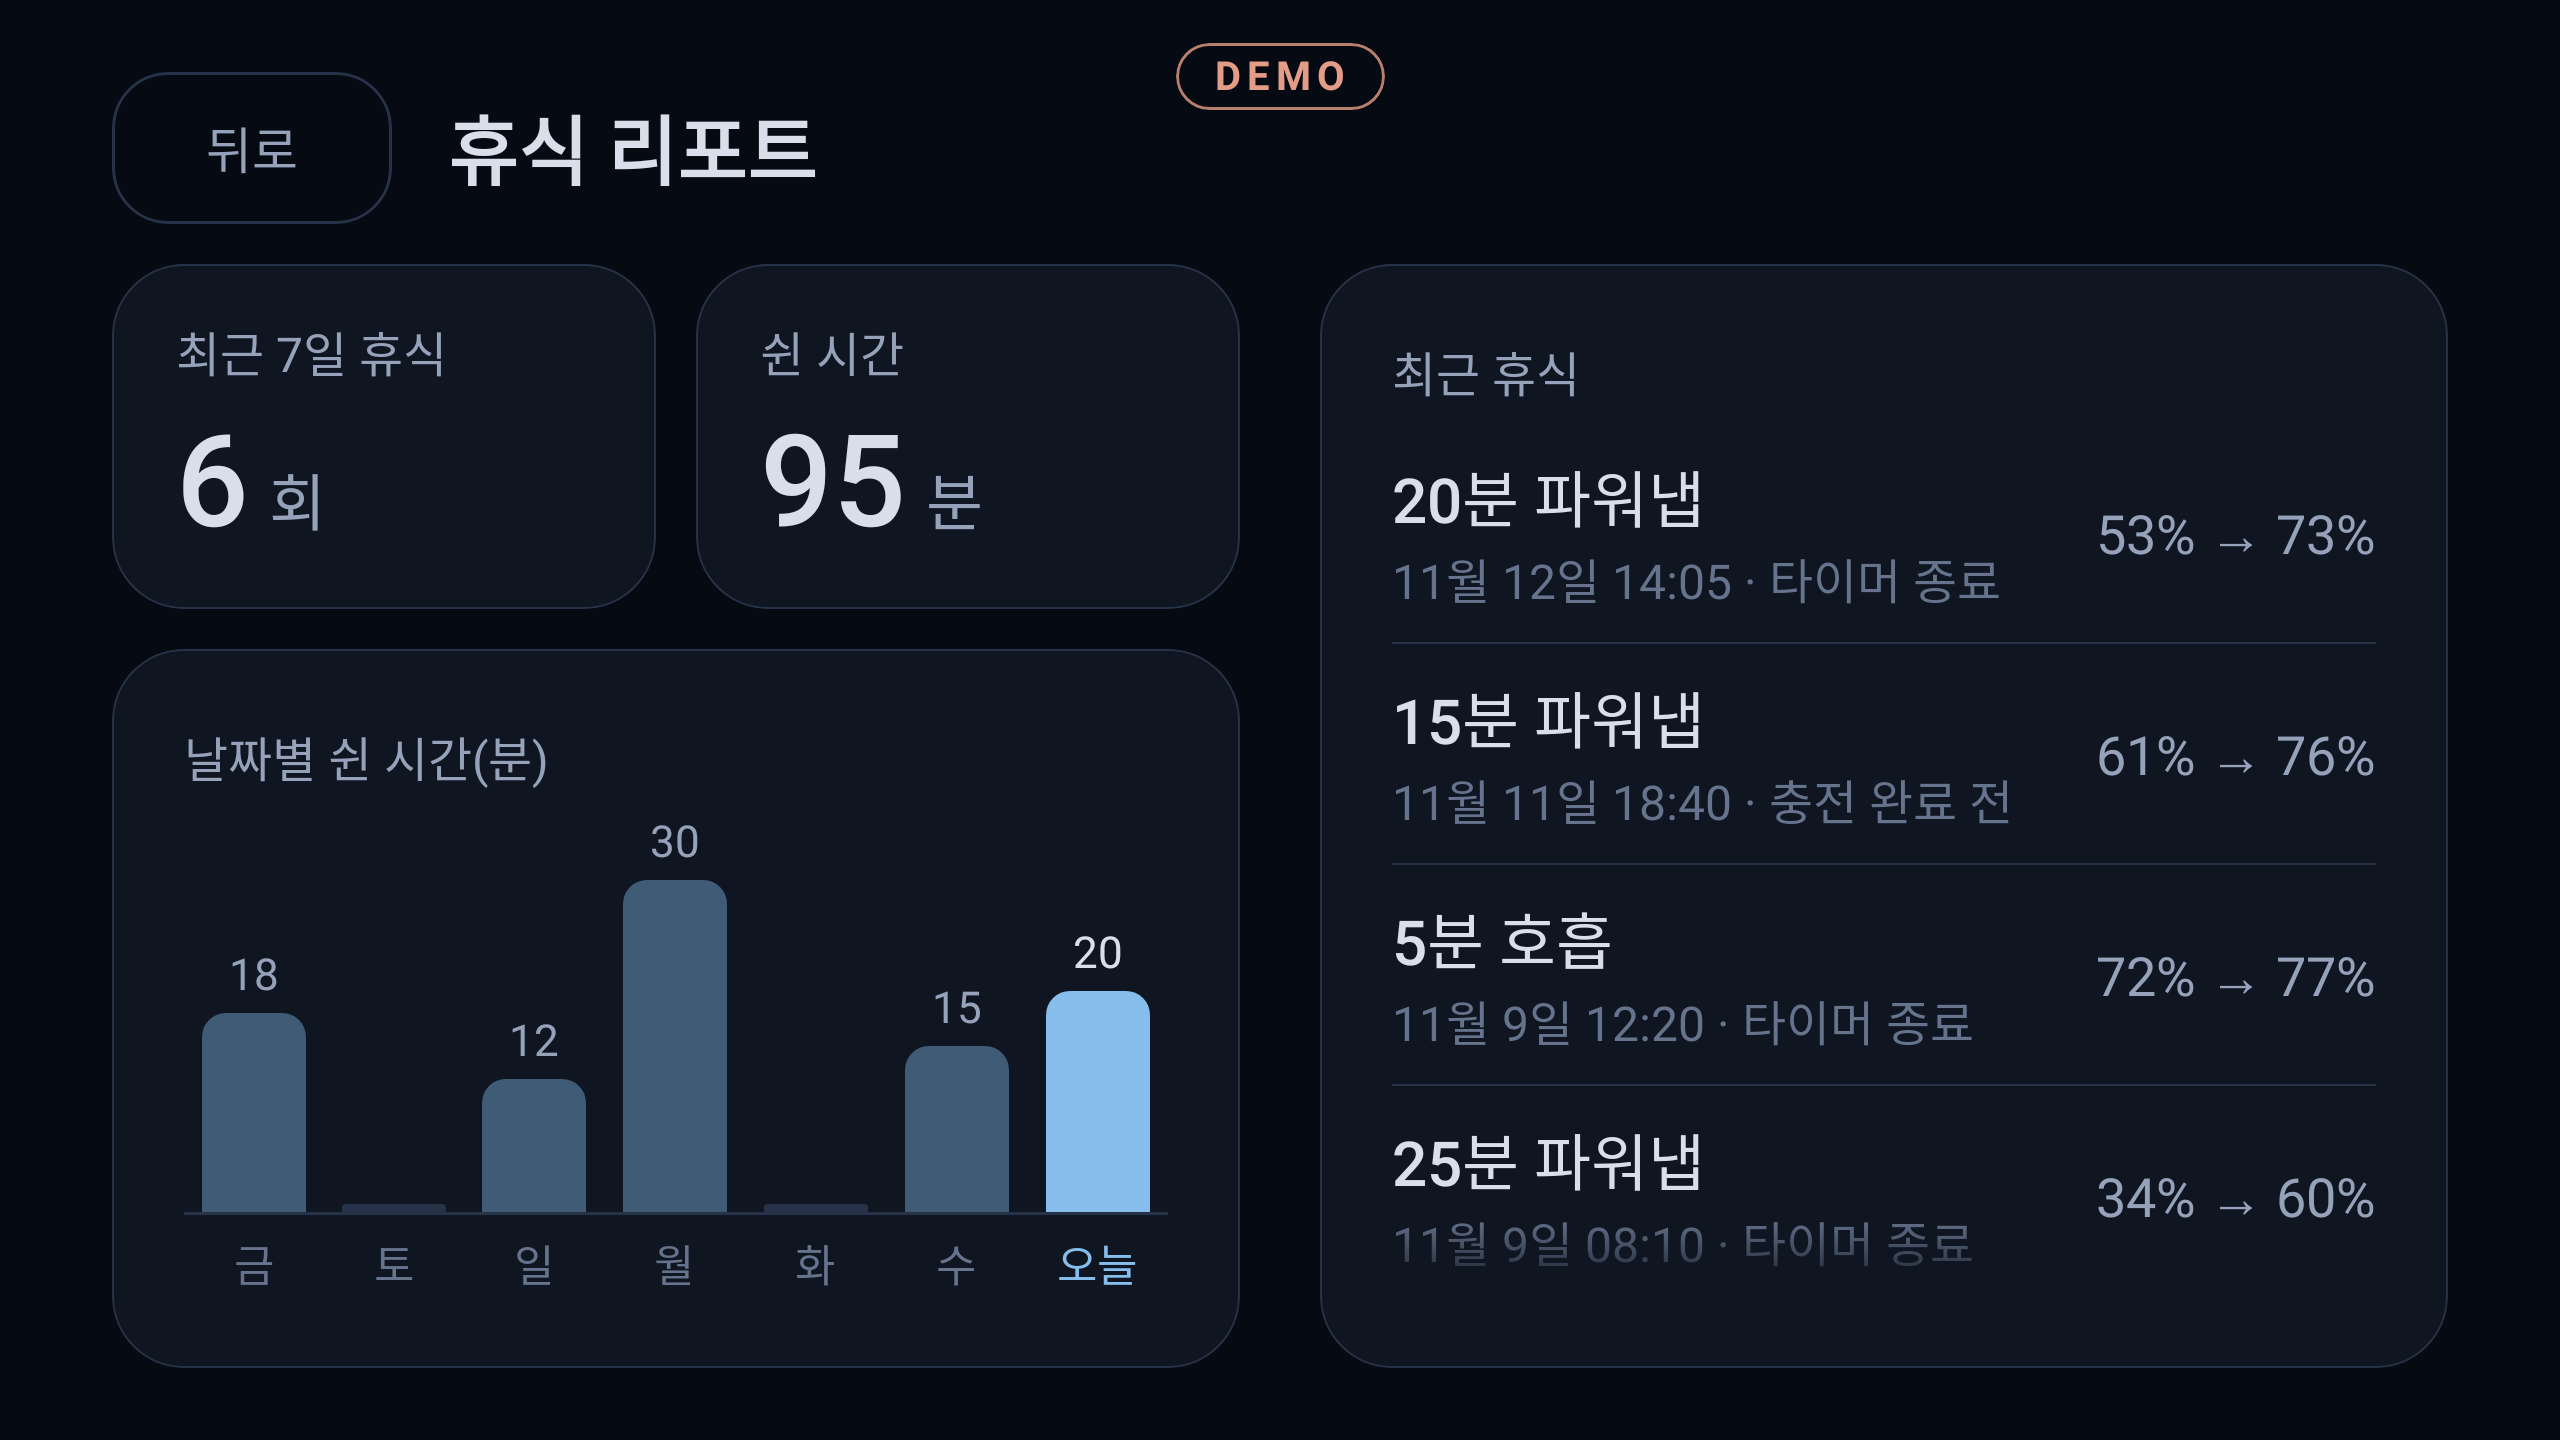
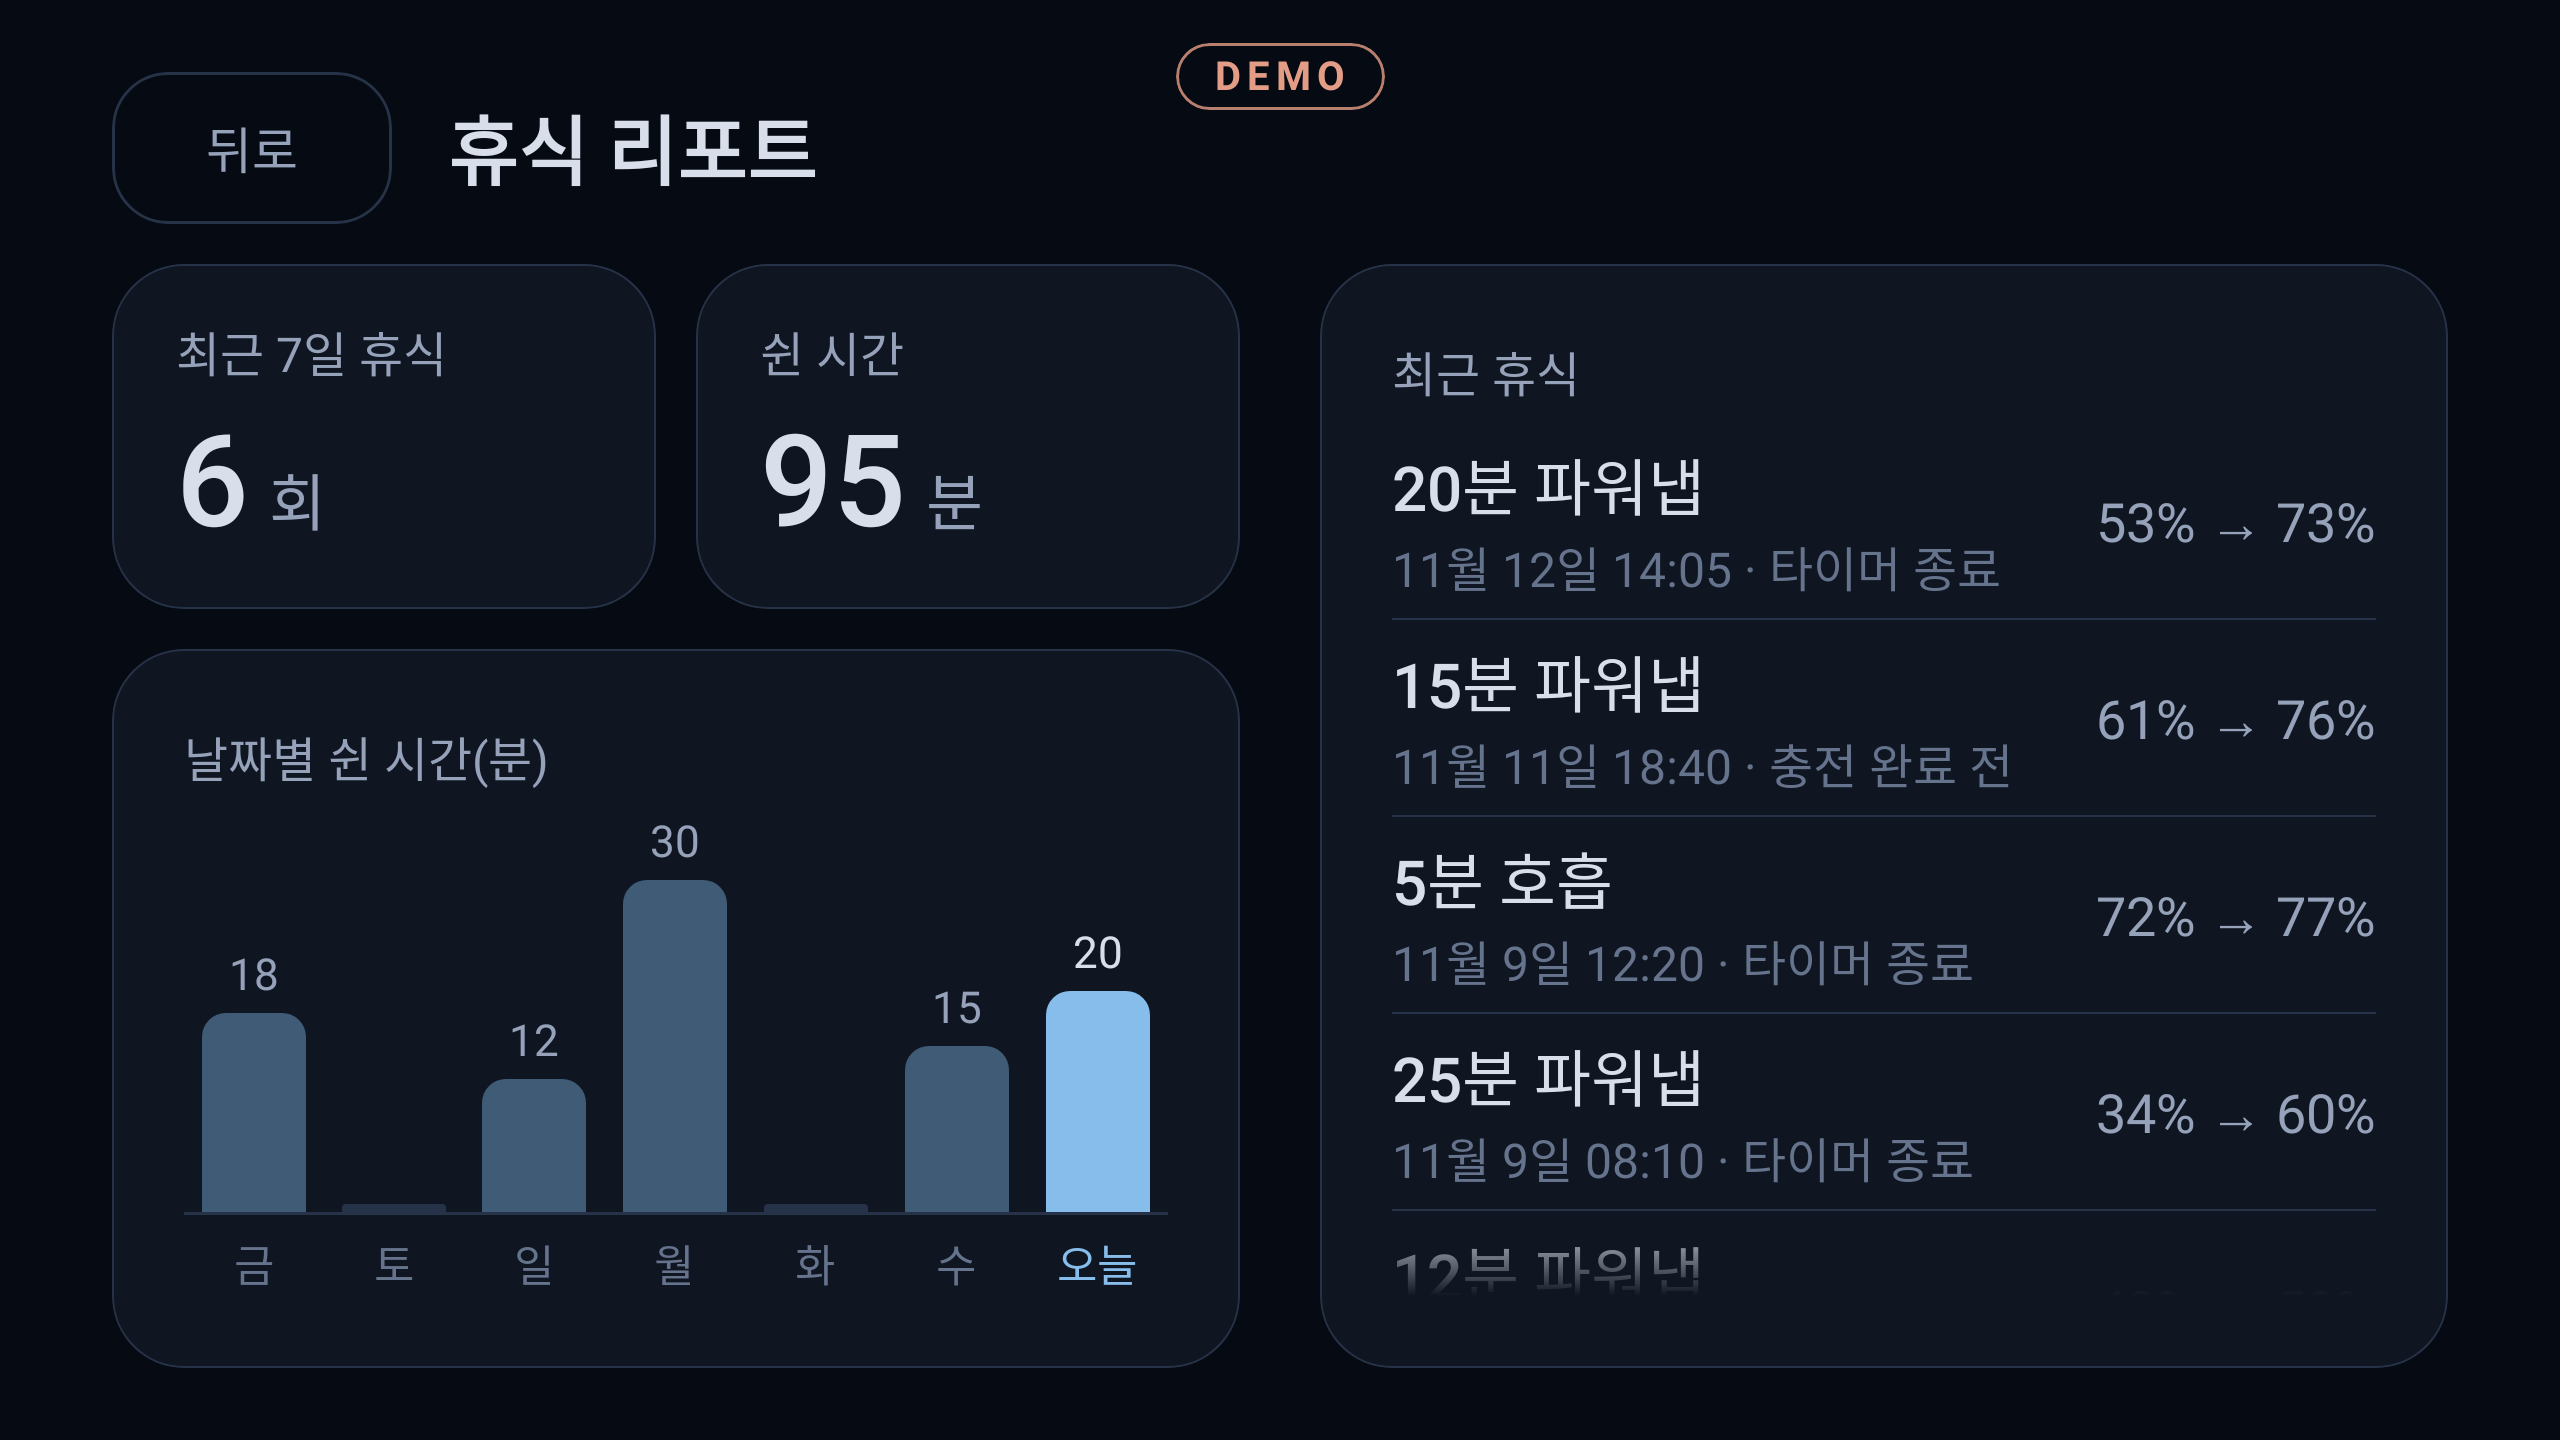
feat(ui): 화면, 설정, 휴식 리포트

diff --git a/app/src/test/java/com/chargenap/app/ui/ChargeNapScreensTest.kt b/app/src/test/java/com/chargenap/app/ui/ChargeNapScreensTest.kt
@@ -1,0 +1,179 @@
+package com.chargenap.app.ui
+
+import android.app.Application
+import androidx.compose.ui.test.assertIsDisplayed
+import androidx.compose.ui.test.junit4.createComposeRule
+import androidx.compose.ui.test.longClick
+import androidx.compose.ui.test.onNodeWithText
+import androidx.compose.ui.test.performClick
+import androidx.compose.ui.test.performTouchInput
+import com.chargenap.app.data.InMemoryPreferencesStore
+import com.chargenap.app.data.SessionHistoryRepository
+import com.chargenap.app.data.SessionRecord
+import com.chargenap.app.data.SettingsRepository
+import com.chargenap.app.session.Clock
+import com.chargenap.app.session.NapSessionEngine
+import com.chargenap.app.session.NapSessionState
+import com.chargenap.app.session.SessionConfig
+import com.chargenap.app.vehicle.FakeScenario
+import com.chargenap.app.vehicle.FakeVehicleGateway
+import kotlinx.coroutines.CoroutineScope
+import kotlinx.coroutines.ExperimentalCoroutinesApi
+import kotlinx.coroutines.Job
+import kotlinx.coroutines.cancel
+import kotlinx.coroutines.flow.MutableStateFlow
+import kotlinx.coroutines.launch
+import kotlinx.coroutines.runBlocking
+import kotlinx.coroutines.test.StandardTestDispatcher
+import kotlinx.coroutines.test.TestCoroutineScheduler
+import org.junit.After
+import org.junit.Assert.assertEquals
+import org.junit.Assert.assertTrue
+import org.junit.Before
+import org.junit.Rule
+import org.junit.Test
+import org.junit.runner.RunWith
+import org.robolectric.RobolectricTestRunner
+import org.robolectric.annotation.Config
+import org.robolectric.annotation.GraphicsMode
+
+/**
+ * 진입점 [ChargeNapScreens]를 실제 ViewModel·엔진·가상 차량과 묶어, 화면 터치만으로 세션 한 바퀴가 도는지 확인한다.
+ * 엔진과 가상 차량의 시간은 테스트 스케줄러로 직접 흘린다.
+ */
+@OptIn(ExperimentalCoroutinesApi::class)
+@RunWith(RobolectricTestRunner::class)
+@GraphicsMode(GraphicsMode.Mode.NATIVE)
+@Config(sdk = [34], qualifiers = "w2560dp-h1440dp-land-mdpi", application = Application::class)
+class ChargeNapScreensTest {
+
+    @get:Rule
+    val compose = createComposeRule()
+
+    private val scheduler = TestCoroutineScheduler()
+    private val dispatcher = StandardTestDispatcher(scheduler)
+    private val scope = CoroutineScope(dispatcher + Job())
+
+    private lateinit var fake: FakeVehicleGateway
+    private lateinit var engine: NapSessionEngine
+    private lateinit var history: SessionHistoryRepository
+    private lateinit var viewModel: NapViewModel
+    private val dimChanges = mutableListOf<Boolean>()
+
+    @Before
+    fun setUp() {
+        fake = FakeVehicleGateway(
+            FakeScenario(startPercent = 50, percentPerMinute = 1.0, autoStartChargingAfterMillis = null),
+            timeScale = 1.0,
+            scope = scope,
+        )
+        engine = NapSessionEngine(
+            gateway = fake,
+            clock = Clock { 1_800_000_000_000 + scheduler.currentTime },
+            scope = scope,
+            config = MutableStateFlow(SessionConfig()),
+            tickMillis = 1_000,
+        )
+        history = SessionHistoryRepository(InMemoryPreferencesStore())
+        scope.launch { engine.completedSessions.collect { history.add(SessionRecord.from(it)) } }
+        runBlocking { fake.start() }
+        engine.start()
+        viewModel = NapViewModel(
+            engine = engine,
+            gateway = fake,
+            demoControls = fake,
+            settingsRepository = SettingsRepository(InMemoryPreferencesStore()),
+            historyRepository = history,
+            coroutineContext = scope.coroutineContext,
+        )
+        scheduler.runCurrent()
+        compose.setContent {
+            ChargeNapScreens(viewModel = viewModel, onSleepDimChanged = { dimChanges += it })
+        }
+    }
+
+    @After
+    fun tearDown() {
+        scope.cancel()
+    }
+
+    private fun advance(millis: Long = 0) {
+        scheduler.advanceTimeBy(millis)
+        scheduler.runCurrent()
+        compose.waitForIdle()
+    }
+
+    @Test
+    fun touchOnly_fullSession_fromDemoPanelToReport() {
+        // 홈: 충전 전이라 시작할 수 없다. DEMO 배지가 보인다.
+        compose.onNodeWithText("DEMO").assertIsDisplayed()
+        compose.onNodeWithText("충전기를 연결하면 시작할 수 있어요").assertIsDisplayed()
+        assertEquals(listOf(false), dimChanges)
+
+        // DEMO 조작 패널로 충전을 시작하면 제안이 뜬다.
+        fake.setRemainingChargeMinutes(27)
+        compose.onNodeWithText("DEMO 조작").performClick()
+        compose.onNodeWithText("충전 시작").performClick()
+        advance()
+        compose.onNodeWithText("접기").performClick()
+        compose.onNodeWithText("20분 파워냅 어때요?").assertIsDisplayed()
+
+        // 수락 → 뒷좌석 질문 → 준비 → 수면
+        compose.onNodeWithText("시작").performClick()
+        advance()
+        compose.onNodeWithText("없어요").performClick()
+        advance(1_000)
+        assertTrue(engine.state.value is NapSessionState.Napping)
+        compose.onNodeWithText("20:00").assertIsDisplayed()
+        assertEquals(listOf(false, true), dimChanges)
+        assertEquals(60, fake.seatReclineLevel.value)
+
+        // 남은 시간이 엔진 시계를 따라 줄어든다.
+        advance(61_000)
+        compose.onNodeWithText("18:59").assertIsDisplayed()
+
+        // 길게 눌러 기상 → 브리핑 → 확인
+        compose.onNodeWithText("18:59").performTouchInput { longClick() }
+        advance()
+        compose.onNodeWithText("일어나는 중이에요").assertIsDisplayed()
+        assertEquals(listOf(false, true, false), dimChanges)
+        advance(22_000)
+        compose.onNodeWithText("잘 쉬셨어요").assertIsDisplayed()
+        assertEquals(0, fake.seatReclineLevel.value)
+        compose.onNodeWithText("확인").performClick()
+        advance()
+
+        // 홈으로 돌아오고, 리포트에 방금 세션이 나온다.
+        compose.onNodeWithText("리포트").performClick()
+        compose.onNodeWithText("1분 파워냅").assertIsDisplayed()
+        compose.onNodeWithText("최근 휴식").assertIsDisplayed()
+    }
+
+    @Test
+    fun doorOpensDuringNap_showsAbortedAndRestores() {
+        fake.setRemainingChargeMinutes(27)
+        fake.startCharging()
+        advance()
+        compose.onNodeWithText("시작").performClick()
+        advance()
+        compose.onNodeWithText("없어요").performClick()
+        advance(1_000)
+        assertEquals(listOf(false, true), dimChanges)
+
+        fake.setDoorOpen(true)
+        advance()
+        compose.onNodeWithText("문이 열려 휴식을 멈췄어요").assertIsDisplayed()
+        compose.onNodeWithText("문을 닫으면 시트를 되돌려요").assertIsDisplayed()
+        assertEquals(listOf(false, true, false), dimChanges)
+        assertEquals(60, fake.seatReclineLevel.value)
+
+        // 문을 닫으면 버튼을 누르지 않아도 복구한다.
+        fake.setDoorOpen(false)
+        advance(2_000)
+        compose.onNodeWithText("시트와 공조를 원래대로 되돌렸어요").assertIsDisplayed()
+        assertEquals(0, fake.seatReclineLevel.value)
+        compose.onNodeWithText("확인").performClick()
+        advance()
+        compose.onNodeWithText("차지냅").assertIsDisplayed()
+    }
+}

diff --git a/app/src/test/java/com/chargenap/app/ui/ScreenSnapshotTest.kt b/app/src/test/java/com/chargenap/app/ui/ScreenSnapshotTest.kt
@@ -336,6 +336,49 @@ class ScreenSnapshotTest {
         ).copy(gearInPark = false, startBlockers = allPass.copy(gear = CheckResult.FAIL)),
     )
 
+    // ---------------------------------------------------------------- 16:9가 아닌 화면
+
+    @Test
+    @Config(qualifiers = "w2880dp-h1080dp-land-mdpi")
+    fun ultraWide_home() = capture(
+        "90_ultrawide_home",
+        charging(NapSessionState.Offer(Recommendation.Nap(20, 27)), demo = true),
+    )
+
+    @Test
+    @Config(qualifiers = "w2880dp-h1080dp-land-mdpi")
+    fun ultraWide_briefingFailures() = capture(
+        "91_ultrawide_briefing",
+        charging(
+            NapSessionState.Briefing(summary.copy(rangeKm = null, failures = listOf("seat: timeout", "climate: rejected"))),
+            demo = true,
+        ),
+    )
+
+    @Test
+    @Config(qualifiers = "w1600dp-h1200dp-land-mdpi")
+    fun fourByThree_safety() = capture(
+        "92_4x3_safety",
+        charging(
+            NapSessionState.SafetyCheck(
+                minutes = 20,
+                mode = SessionMode.NAP,
+                report = allPass.copy(parkingBrake = CheckResult.FAIL),
+                rearSeatQuestionPending = false,
+                doorConfirmPending = false,
+            ),
+            demo = true,
+        ),
+    )
+
+    @Test
+    @Config(qualifiers = "w1600dp-h1200dp-land-mdpi")
+    fun fourByThree_settings() = capture(
+        "93_4x3_settings",
+        charging(NapSessionState.Idle, demo = false),
+        route = NapRoute.SETTINGS,
+    )
+
     // ---------------------------------------------------------------- 리포트와 설정
 
     @Test

diff --git a/app/src/main/java/com/chargenap/app/ui/report/ReportScreen.kt b/app/src/main/java/com/chargenap/app/ui/report/ReportScreen.kt
@@ -250,7 +250,7 @@ private fun RecordRow(record: SessionRecord, zone: ZoneId) {
     val detail = stringResource(R.string.report_item_detail, date, stringResource(wakeReasonShortLabel(record.wakeReason)))
     val start = record.batteryStartPercent
     val end = record.batteryEndPercent
-    Row(Modifier.fillMaxWidth().padding(vertical = 14.dp), verticalAlignment = Alignment.CenterVertically) {
+    Row(Modifier.fillMaxWidth().padding(vertical = 8.dp), verticalAlignment = Alignment.CenterVertically) {
         Column(Modifier.weight(1f)) {
             Text(
                 text = title,
